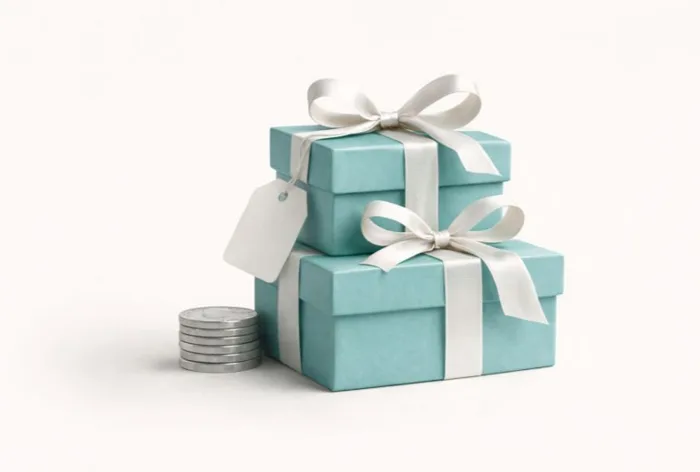
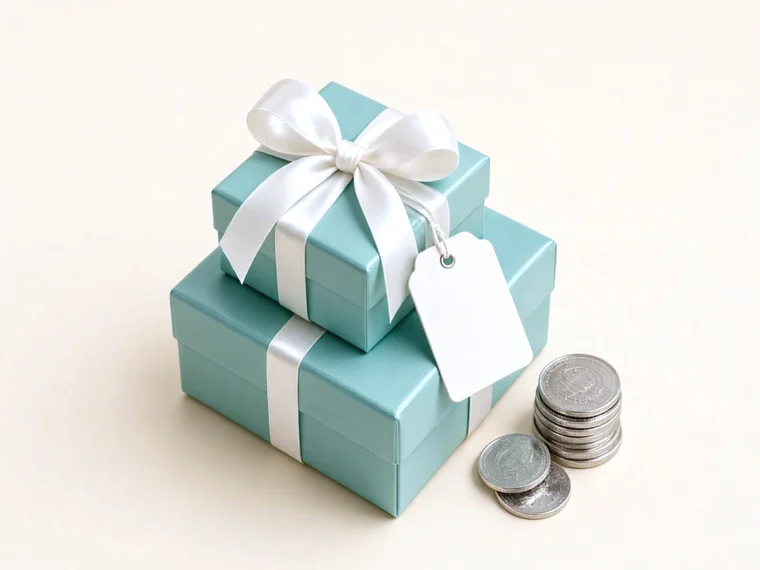
Услуги: картинки в одном стиле и цвете сайта, цены пакетов строкой

diff --git a/index.html b/index.html
@@ -217,7 +217,7 @@ dialog .x{position:absolute;top:8px;right:8px;width:40px;height:40px;border-radi
 .svc-tabs{display:grid;grid-template-columns:repeat(4,1fr);gap:5px;margin-top:16px;position:relative;z-index:1}
 .svc-tabs .tab{height:43px}
 .svc-body{position:relative;display:grid;grid-template-columns:395px 1fr;gap:0;margin-top:40px;align-items:center;background:#FBF6F2;border-radius:0}
-.svc-body>img{width:100%;max-height:330px;object-fit:contain}
+.svc-body>img{width:100%;max-height:330px;object-fit:contain;-webkit-mask-image:radial-gradient(ellipse at center,#000 62%,transparent 100%);mask-image:radial-gradient(ellipse at center,#000 62%,transparent 100%)}
 .svc-card{position:relative;background:var(--cream);border-radius:10px;box-shadow:var(--shadow-tab);padding:14px 28px 30px;margin-left:5px;min-height:300px;animation:mk .28s cubic-bezier(.2,.9,.2,1)}
 .svc-card[hidden]{display:none}
 .svc-card h3{display:flex;align-items:center;gap:16px;font-size:22px;line-height:30px;font-weight:700;color:var(--teal);margin-bottom:18px}
@@ -228,6 +228,11 @@ dialog .x{position:absolute;top:8px;right:8px;width:40px;height:40px;border-radi
 .svc-card table{border-collapse:collapse;width:100%;margin:6px 0 4px}
 .svc-card th,.svc-card td{text-align:left;padding:8px 10px;border-bottom:1px solid #EEE4D6;font-size:17px}
 .svc-card th{color:var(--teal);font-weight:700}
+.svc-card .pk{display:grid;grid-template-columns:repeat(4,1fr);gap:8px;margin-top:10px}
+.svc-card .pk div{background:#FBF6F2;border-radius:8px;padding:8px 6px;text-align:center}
+.svc-card .pk b{display:block;color:var(--teal);font-size:15px;line-height:20px;font-weight:700}
+.svc-card .pk span{display:block;font-size:16px;line-height:22px;font-weight:600;white-space:nowrap}
+@media (max-width:480px){.svc-card .pk{grid-template-columns:1fr 1fr}}
 .svc svg.links{position:absolute;inset:0;width:100%;height:100%;pointer-events:none;overflow:visible;z-index:0}
 .svc-cta{display:flex;justify-content:center;margin-top:36px}
 .svc-cta .btn{width:274px}
@@ -438,12 +443,12 @@ footer{background:var(--teal2);color:#fff}
         <button class="tab" role="tab" aria-selected="false" data-s="4">Пакеты сессий</button>
       </div>
       <div class="svc-body">
-        <img id="svc-img" src="img/il-diag.webp" alt="" loading="lazy">
+        <img id="svc-img" src="img/il-diag.webp?v=2" alt="" loading="lazy">
         <div>
           <div class="svc-card" data-c="1"><h3><img src="img/i-diagnostics.webp" alt="">Диагностика</h3><p>Ознакомительная встреча, на которой вы можете рассказать о своей ситуации и почувствовать, комфортно ли вам со мной как со специалистом. Где я помогаю прояснить суть запроса, даже если сейчас он ощущается размытым, и даю первичное понимание возможного пути работы.</p><div class="kv"><b>Формат:</b> онлайн<br><b>Длительность:</b> 60 минут<br><b>Стоимость:</b> 2 500 ₽ <s>5 000 ₽</s> — скидка 50% на первую консультацию</div></div>
           <div class="svc-card" data-c="2" hidden><h3><img src="img/i-online.webp" alt="">Консультация</h3><p>Глубокая работа с конкретным запросом. На консультации мы проясняем запрос, выходим на причинный уровень и мягко прорабатываем его, снижая эмоциональное и внутреннее напряжение. Даже одна сессия помогает вернуть ясность, опору и более устойчивое состояние.</p><div class="kv"><b>Формат:</b> онлайн<br><b>Длительность:</b> 60 минут<br><b>Стоимость:</b> 5 000 ₽</div></div>
           <div class="svc-card" data-c="3" hidden><h3><img src="img/i-group.webp" alt="">Ноутинг</h3><p>Ноутинг — это практика глубокого и честного знакомства с собой настоящим. С помощью специальной методики мы будем учиться замечать и называть то, что обычно мы скрываем от людей и даже от себя: злость, страх, тревогу, одиночество, стыд.</p><div class="kv"><b>Формат:</b> онлайн, Zoom<br><b>Когда:</b> каждое воскресенье<br><b>Длительность:</b> ~ 1 час<br><b>Стоимость:</b> 1 000 ₽</div></div>
-          <div class="svc-card" data-c="4" hidden><h3><img src="img/i-packages.webp" alt="">Пакеты сессий</h3><p>Устойчивые изменения и сопровождение во времени. Формат для тех, кто хочет глубже проработать запрос и закрепить изменения. Работа выстраивается последовательно, с вниманием к динамике состояния и прогрессу.</p><div class="kv"><b>Формат:</b> онлайн</div><table><tr><th>Сессии</th><th>Цена</th></tr><tr><td>4</td><td>19 000 ₽</td></tr><tr><td>8</td><td>36 000 ₽</td></tr><tr><td>12</td><td>51 000 ₽</td></tr><tr><td>24</td><td>96 000 ₽</td></tr></table></div>
+          <div class="svc-card" data-c="4" hidden><h3><img src="img/i-packages.webp" alt="">Пакеты сессий</h3><p>Устойчивые изменения и сопровождение во времени. Формат для тех, кто хочет глубже проработать запрос и закрепить изменения. Работа выстраивается последовательно, с вниманием к динамике состояния и прогрессу.</p><div class="kv"><b>Формат:</b> онлайн</div><div class="pk"><div><b>4 сессии</b><span>19 000 ₽</span></div><div><b>8 сессий</b><span>36 000 ₽</span></div><div><b>12 сессий</b><span>51 000 ₽</span></div><div><b>24 сессии</b><span>96 000 ₽</span></div></div></div>
         </div>
       </div>
     </div>
@@ -550,7 +555,7 @@ function drawSvc(){
 }
 const IL={1:'il-diag',2:'il-kons',3:'il-group',4:'il-packages'};
 const stabs=[...document.querySelectorAll('.svc-tabs .tab')],scards=[...document.querySelectorAll('.svc-card')];
-stabs.forEach(t=>t.addEventListener('click',()=>{stabs.forEach(x=>{const on=x===t;x.classList.toggle('on',on);x.setAttribute('aria-selected',on)});scards.forEach(c=>c.hidden=c.dataset.c!==t.dataset.s);document.getElementById('svc-img').src='img/'+IL[t.dataset.s]+'.webp';drawSvc()}));
+stabs.forEach(t=>t.addEventListener('click',()=>{stabs.forEach(x=>{const on=x===t;x.classList.toggle('on',on);x.setAttribute('aria-selected',on)});scards.forEach(c=>c.hidden=c.dataset.c!==t.dataset.s);document.getElementById('svc-img').src='img/'+IL[t.dataset.s]+'.webp?v=2';drawSvc()}));
 function redraw(){document.querySelectorAll('[data-scheme]').forEach(drawScheme);drawSvc();}
 window.addEventListener('load',redraw);window.addEventListener('resize',()=>{clearTimeout(window.__rt);window.__rt=setTimeout(redraw,120)});
 if(document.fonts)document.fonts.ready.then(redraw);
